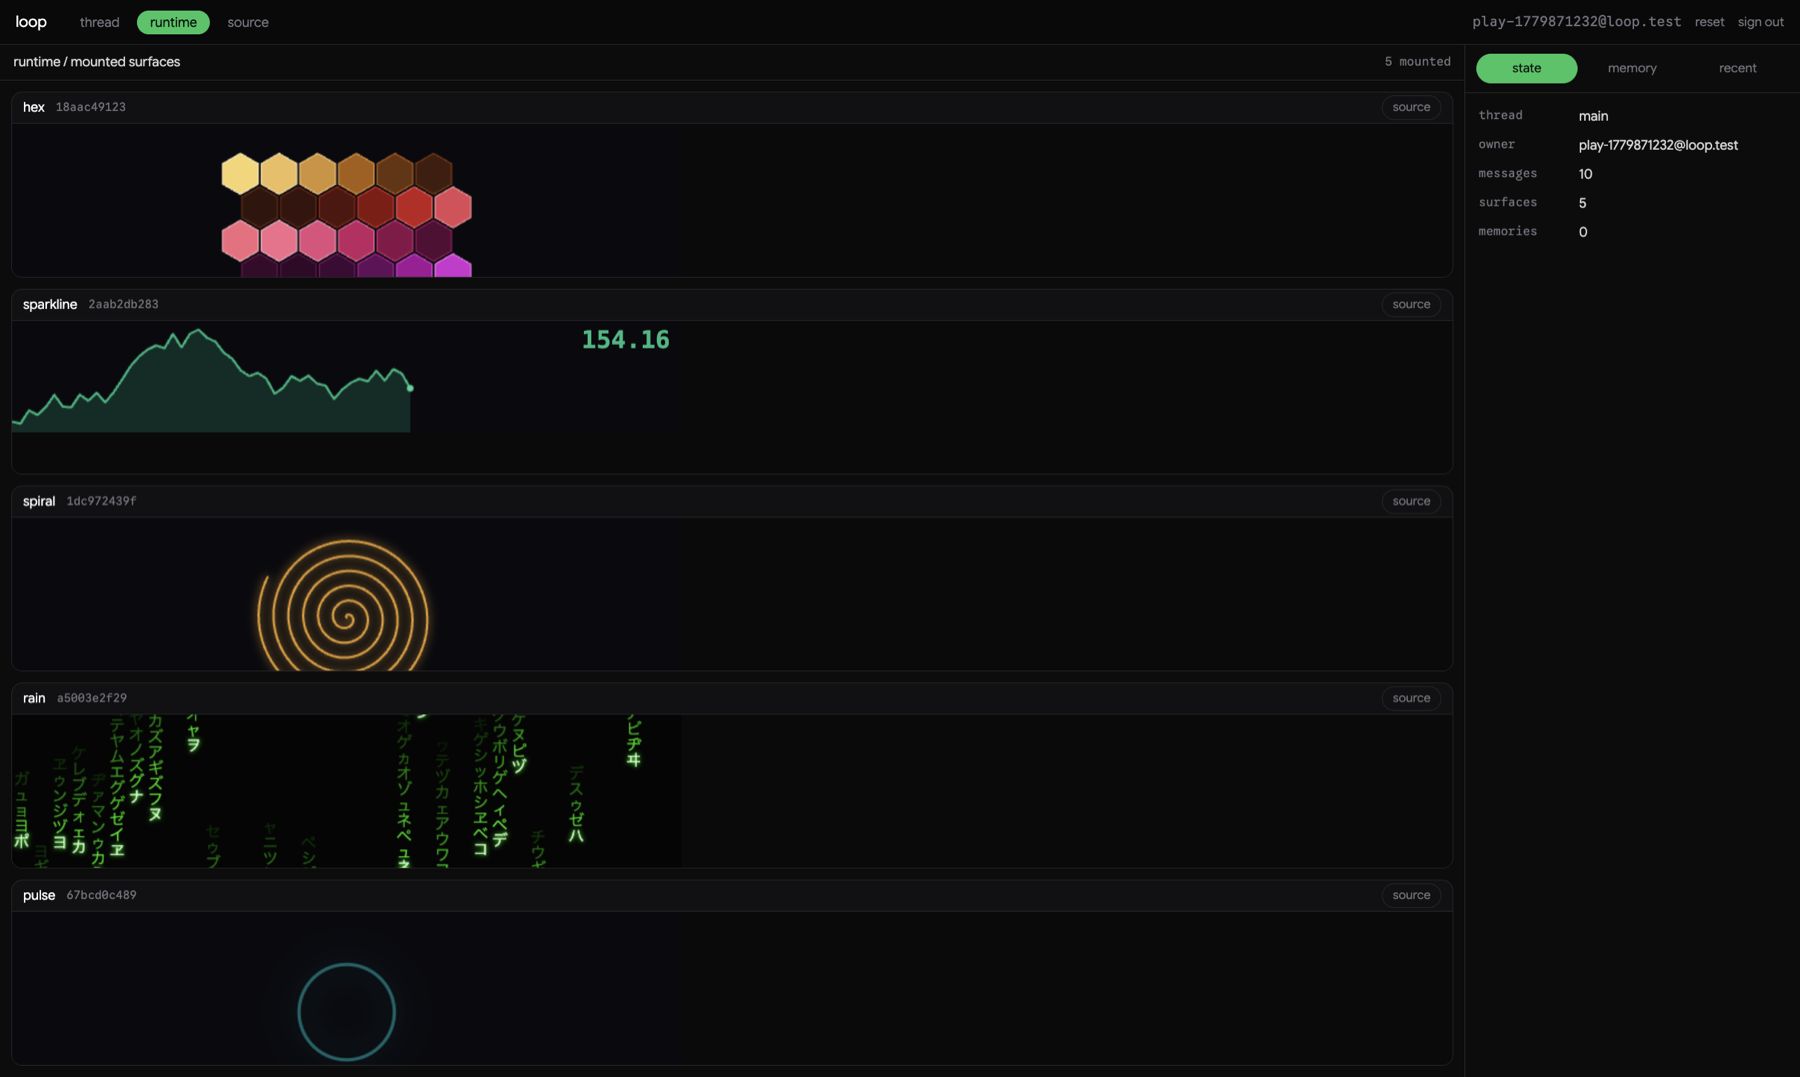
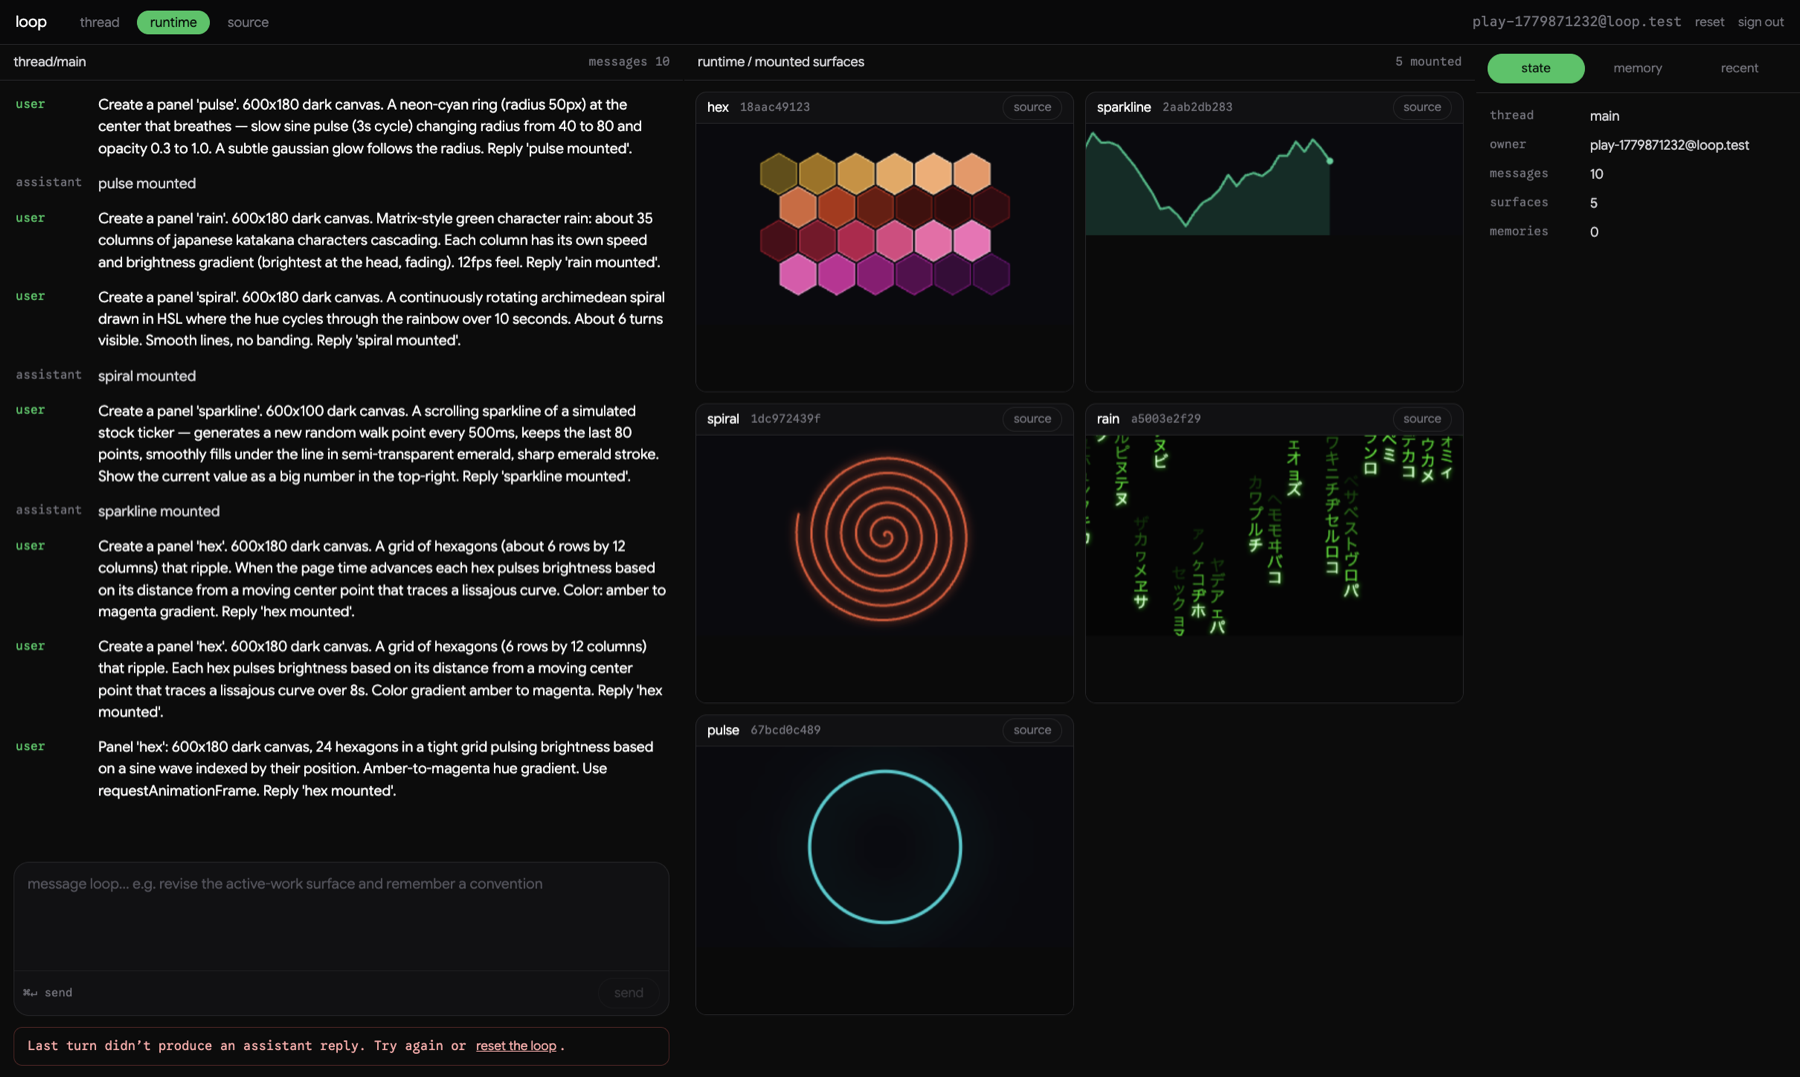
ux: clearer empty state, simpler tabs at wide, syntax highlighting in source pane
- thread vs runtime confusion at wide widths: nav is now a two-way
  'runtime' ⇄ 'source' toggle (transcript is always visible in the left
  splitpane). Narrow keeps the three-way thread/runtime/source for the
  stacked single-pane mode.
- empty state in the thread shows a 3-line orientation paragraph plus
  three one-click sample prompts (panel clock, panel pulse, remember
  preference) so new users know what to ask for.
- syntax highlighting in source via Shiki (lazy-imported, only when the
  source tab is opened). Theme: vitesse-dark; lang: svelte. Cached per
  revision id.

diff --git a/src/routes/+page.svelte b/src/routes/+page.svelte
@@ -5,6 +5,7 @@
   import { Splitpanes, Pane } from "svelte-splitpanes";
   import type { Panel, ThreadSnapshot } from "$lib/thread";
   import { getThread, sendMessage, resetThread } from "./data.remote";
+  import { highlightSvelte } from "$lib/highlight";
 
   let { data } = $props();
   let live = $state<ThreadSnapshot | null>(null);
@@ -138,6 +139,20 @@
     return () => mq.removeEventListener("change", sync);
   });
 
+  // Lazy-highlighted source HTML, keyed by revision id so we cache across panel switches.
+  let highlightedSources = $state<Record<string, string>>({});
+  $effect(() => {
+    if (mainTab !== "source" || !selectedPanel) return;
+    const revisionId = selectedPanel.revision.id;
+    if (highlightedSources[revisionId]) return;
+    const source = selectedPanel.revision.source;
+    let cancelled = false;
+    highlightSvelte(source).then((html) => {
+      if (!cancelled) highlightedSources = { ...highlightedSources, [revisionId]: html };
+    }).catch(() => { /* fall back to plain pre */ });
+    return () => { cancelled = true; };
+  });
+
   function keydown(event: KeyboardEvent) {
     if ((event.metaKey || event.ctrlKey) && event.key === "Enter") {
       event.preventDefault();
@@ -181,9 +196,14 @@
     <strong>loop</strong>
     {#if thread}
       <nav>
-        <button class:active={mainTab === "thread"} onclick={() => mainTab = "thread"}>thread</button>
-        <button class:active={mainTab === "runtime"} onclick={() => mainTab = "runtime"}>runtime</button>
-        <button class:active={mainTab === "source"} onclick={() => mainTab = "source"}>source</button>
+        {#if isWide}
+          <button class:active={mainTab !== "source"} onclick={() => mainTab = "runtime"}>runtime</button>
+          <button class:active={mainTab === "source"} onclick={() => mainTab = "source"}>source</button>
+        {:else}
+          <button class:active={mainTab === "thread"} onclick={() => mainTab = "thread"}>thread</button>
+          <button class:active={mainTab === "runtime"} onclick={() => mainTab = "runtime"}>runtime</button>
+          <button class:active={mainTab === "source"} onclick={() => mainTab = "source"}>source</button>
+        {/if}
       </nav>
       <div class="bar-right">
         {#if page.data.user}
@@ -223,12 +243,23 @@
         <code>messages {thread.stats.messageCount}</code>
       </div>
       <div class="log">
-        {#each messages as message (message.key)}
-          <article class:user={message.kind === "user"}>
-            <span class="role">{message.kind === "pending" ? "assistant" : message.kind}</span>
-            <pre class:pending={message.kind === "pending"}>{message.text}</pre>
-          </article>
-        {/each}
+        {#if messages.length === 0}
+          <div class="intro">
+            <p>Ask the model to <strong>create or revise a panel</strong>, or to <strong>remember</strong> something. Generated Svelte 5 compiles on the Worker and mounts in <em>runtime</em>; its source lives in <em>source</em>; kept facts show up in <em>memory</em>.</p>
+            <ul>
+              <li><button class="plain inline" onclick={() => composer = "Create a panel 'clock' showing the current time, large and centered, on a dark background. Reply 'mounted'."}>create a panel 'clock' showing the time</button></li>
+              <li><button class="plain inline" onclick={() => composer = "Create a panel 'pulse' — a single neon-cyan ring breathing on a 3s sine wave. Reply 'mounted'."}>create a panel 'pulse' with a breathing ring</button></li>
+              <li><button class="plain inline" onclick={() => composer = "Remember that I prefer dark themes with monospaced numbers."}>remember a preference</button></li>
+            </ul>
+          </div>
+        {:else}
+          {#each messages as message (message.key)}
+            <article class:user={message.kind === "user"}>
+              <span class="role">{message.kind === "pending" ? "assistant" : message.kind}</span>
+              <pre class:pending={message.kind === "pending"}>{message.text}</pre>
+            </article>
+          {/each}
+        {/if}
       </div>
       <form onsubmit={(event) => { event.preventDefault(); submit(); }}>
         <textarea bind:value={composer} onkeydown={keydown} placeholder="message loop… e.g. revise the active-work surface and remember a convention" rows="4"></textarea>
@@ -267,7 +298,11 @@
         {#if selectedPanel}
           <div class="editor">
             <header><strong>{selectedPanel.id}.svelte</strong><code>{selectedPanel.revision.sourceHash}</code></header>
-            <pre>{selectedPanel.revision.source}</pre>
+            {#if highlightedSources[selectedPanel.revision.id]}
+              <div class="hl">{@html highlightedSources[selectedPanel.revision.id]}</div>
+            {:else}
+              <pre>{selectedPanel.revision.source}</pre>
+            {/if}
           </div>
         {:else}
           <p class="empty">No generated surfaces yet.</p>

diff --git a/src/lib/highlight.ts b/src/lib/highlight.ts
@@ -1,0 +1,25 @@
+// Lazy Shiki highlighter for the source pane. Created once per session.
+import type { HighlighterCore } from "shiki";
+
+let highlighterPromise: Promise<HighlighterCore> | null = null;
+
+async function loadHighlighter(): Promise<HighlighterCore> {
+  if (highlighterPromise) return highlighterPromise;
+  highlighterPromise = (async () => {
+    const { createHighlighterCore } = await import("shiki/core");
+    const { createJavaScriptRegexEngine } = await import("shiki/engine/javascript");
+    const svelte = (await import("shiki/langs/svelte.mjs")).default;
+    const theme = (await import("shiki/themes/vitesse-dark.mjs")).default;
+    return createHighlighterCore({
+      themes: [theme],
+      langs: [svelte],
+      engine: createJavaScriptRegexEngine(),
+    });
+  })();
+  return highlighterPromise;
+}
+
+export async function highlightSvelte(source: string): Promise<string> {
+  const highlighter = await loadHighlighter();
+  return highlighter.codeToHtml(source, { lang: "svelte", theme: "vitesse-dark" });
+}

diff --git a/src/app.css b/src/app.css
@@ -110,6 +110,14 @@ code, pre, .mono { font-family: var(--font-mono); font-size: 12.5px; }
 .log article.user pre { color: var(--bright); }
 .pending { color: var(--muted) !important; font-style: italic; }
 
+.intro { color: var(--muted); font-size: 13px; line-height: 1.55; max-width: 460px; padding: 4px 2px; }
+.intro p { margin: 0 0 12px; }
+.intro strong, .intro em { color: var(--text); font-style: normal; font-weight: 500; }
+.intro ul { margin: 0; padding: 0; list-style: none; display: flex; flex-direction: column; gap: 6px; }
+.intro li button.plain.inline { color: var(--accent); text-decoration: none; display: inline; padding: 0; font-size: 13px; text-align: left; }
+.intro li button.plain.inline:hover { color: var(--bright); }
+.intro li::before { content: "› "; color: var(--muted); margin-right: 4px; }
+
 form { flex: 0 0 auto; margin: 0 12px 10px; background: var(--panel); border: 1px solid var(--border); border-radius: var(--radius-textarea); }
 form:focus-within { border-color: #3f3f46; }
 textarea { width: 100%; resize: none; outline: none; background: transparent; border: 0; padding: 10px 12px 6px; color: var(--bright); font-family: var(--font-sans); font-size: 13px; line-height: 1.45; }
@@ -172,7 +180,12 @@ dd { margin: 0; color: var(--text); word-break: break-all; }
 .editor header { flex: 0 0 32px; padding: 0 12px; border-bottom: 1px solid var(--border); display: flex; gap: 12px; align-items: center; }
 .editor header strong { font-family: var(--font-mono); font-size: 12px; color: var(--bright); }
 .editor header code { color: var(--muted); font-family: var(--font-mono); font-size: 10.5px; overflow: hidden; text-overflow: ellipsis; }
-.editor pre { min-height: 0; flex: 1; overflow: auto; padding: 12px; margin: 0; white-space: pre; color: var(--text); line-height: 1.5; font-family: var(--font-mono); font-size: 12px; }
+.editor pre, .editor .hl { min-height: 0; flex: 1; overflow: auto; margin: 0; line-height: 1.5; font-family: var(--font-mono); font-size: 12px; }
+.editor pre { padding: 12px; white-space: pre; color: var(--text); }
+.editor .hl { padding: 0; }
+.editor .hl :global(pre.shiki) { margin: 0; padding: 12px; background: transparent !important; min-height: 100%; font-family: var(--font-mono); font-size: 12px; line-height: 1.5; }
+.editor .hl :global(pre.shiki code) { background: transparent; }
+.editor .hl :global(pre.shiki .line) { display: block; }
 .empty { margin: 14px; color: var(--muted); font-size: 12px; }
 
 .login { width: 380px; margin: 13vh auto; display: flex; flex-direction: column; gap: 10px; }